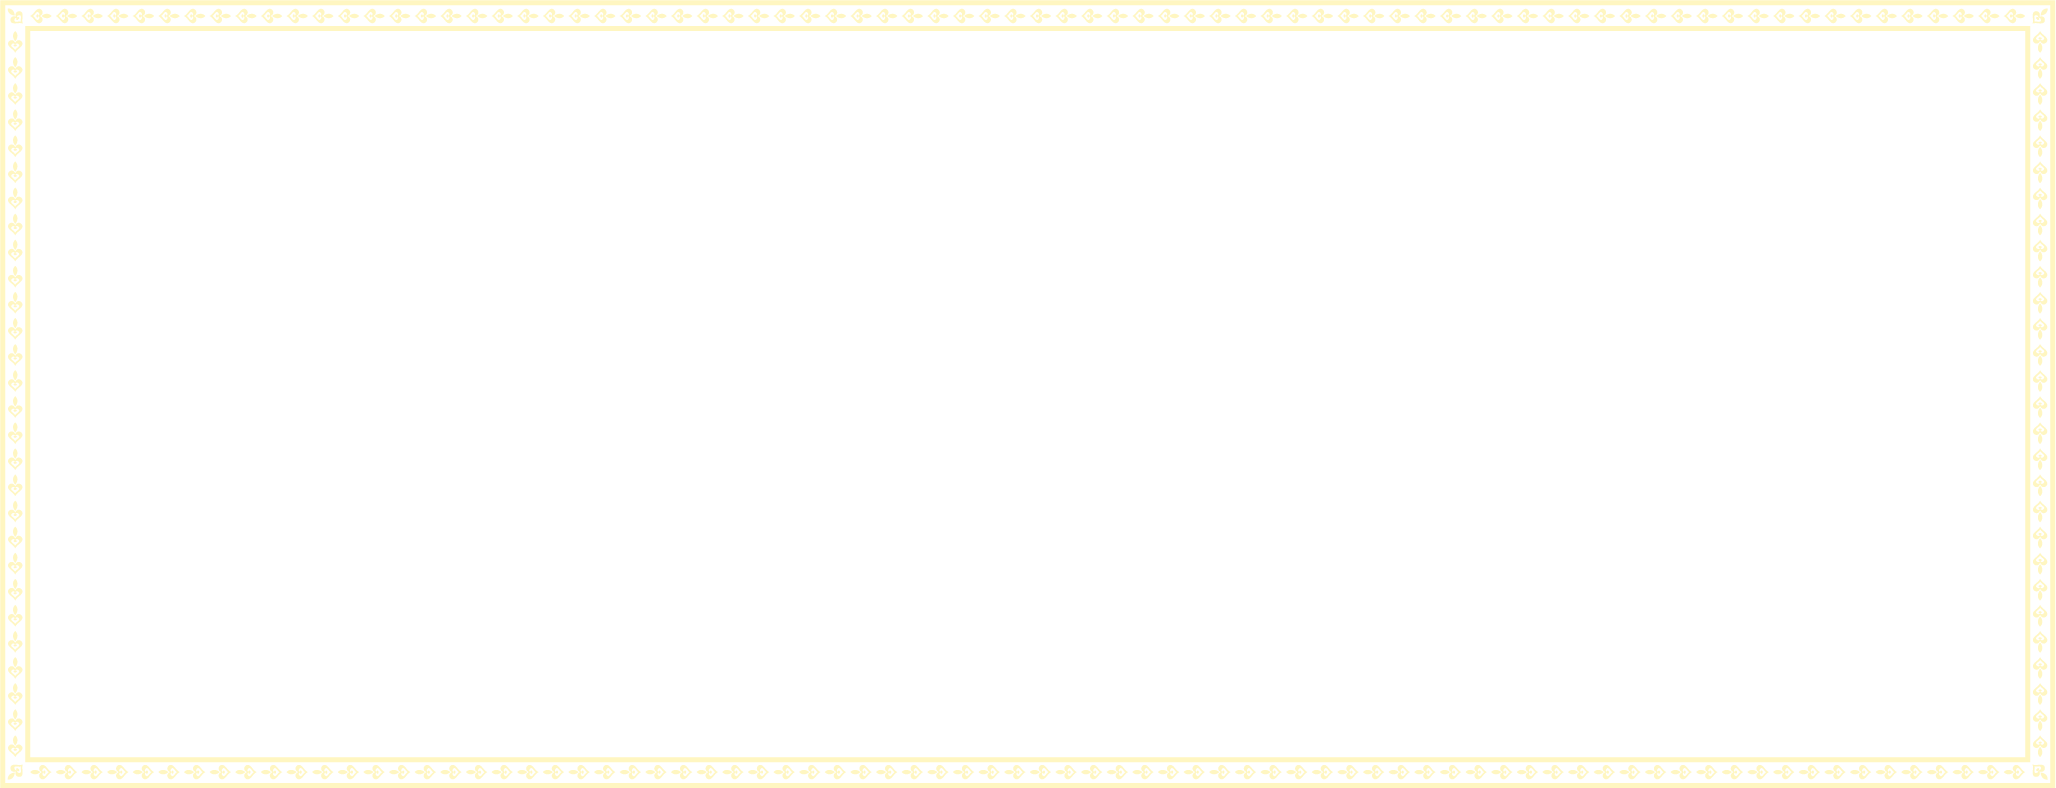
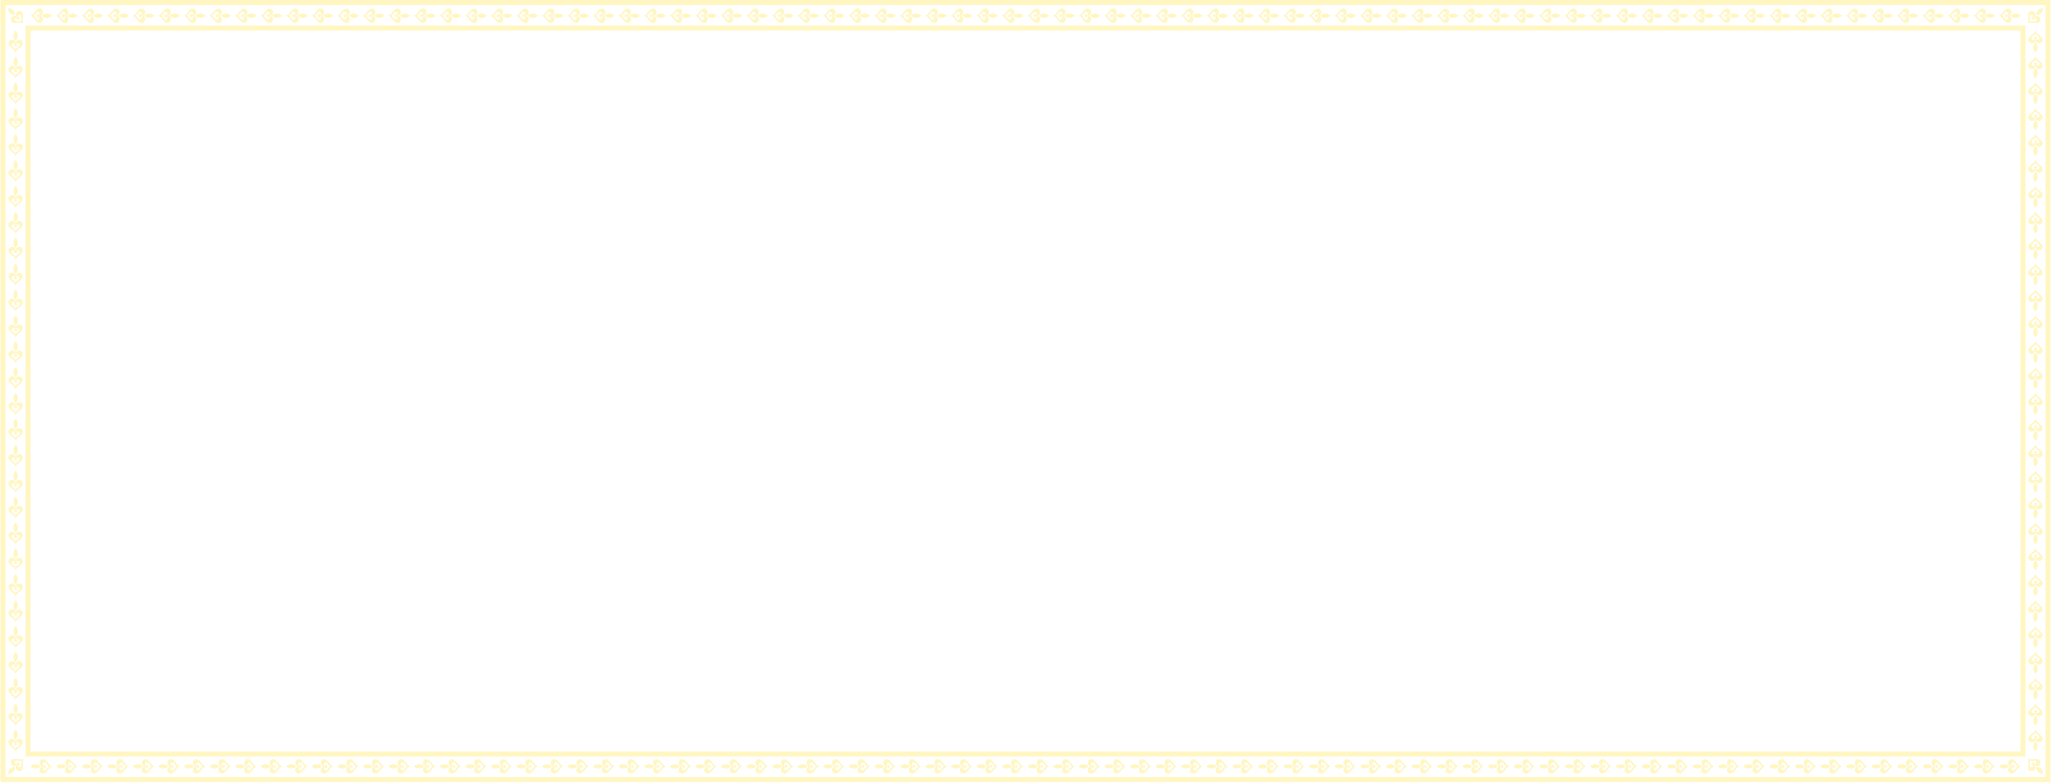
fix: frame + remove background

Changed region(s): [[0.0, 0.9502, 0.9985, 1.0]]

diff --git a/main/style.css b/main/style.css
@@ -111,17 +111,6 @@ video {
     transform: translateX(-50%);
     z-index: 1;
 }
-/* Gameplay Background */
-.gameplay-background {
-    position: absolute;
-    width: 1795.2px;
-    height: 720px;
-    top: 186px;
-    left: 50%;
-    transform: translateX(-50%);
-    background-color: red;
-    z-index: 1;
-}
 /* Gameplay Border Inner */
 .gameplay-border-inner {
     position: absolute;

diff --git a/main/index.html b/main/index.html
@@ -83,7 +83,6 @@
 
         <!-- Gameplay -->
         <img class="gameplay-border" src="static/gameplay-border.png">
-        <div class="gameplay-background"></div>
         <div class="gameplay-border-inner gameplay-border-inner-left"></div>
         <div class="gameplay-border-inner gameplay-border-inner-right"></div>
 
